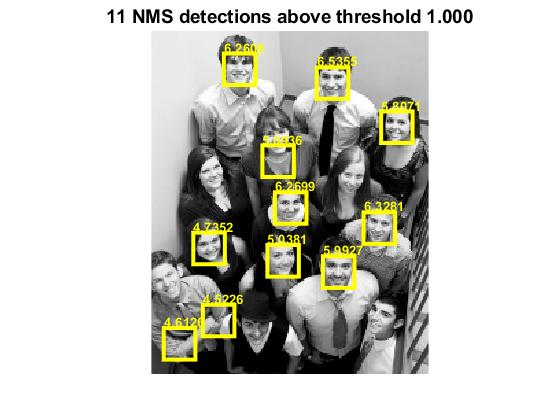
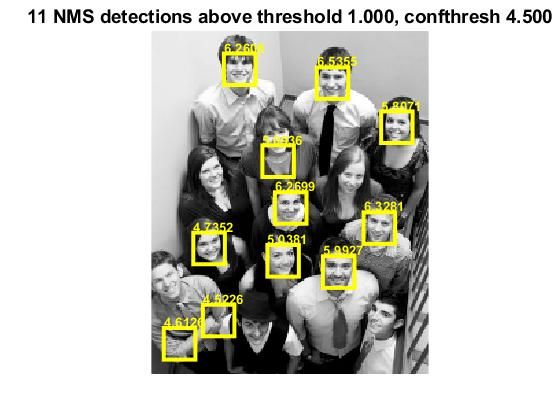
ex

Changed region(s): [[0.0304, 0.0, 1.0, 0.0619]]

diff --git a/matlab/exercise.m b/matlab/exercise.m
@@ -249,7 +249,8 @@ clf, showimage(reshape(W,24,24))
 %%%%%%%%%%%%%%% 2.2 When traibning for different C values, compute W,b
 %%%%%%%%%%%%%%%     and visualize W as an image (see above)
 %%%%%%%%%%%%%%%
-Call=[1000 100 10 1 .1 .01 .001 .0001 .00001];
+%Call=[1000 100 10 1 .1 .01 .001 .0001 .00001];
+Call=[.001];
 accbest=-inf; 
 modelbest=[];
 for i=1:length(Call)
@@ -328,7 +329,7 @@ fprintf('Training and validation accuracy estimated from W = "average image": %1
 
 %%%%%%%%%%%%%%% load test image
 %%%%%%%%%%%%%%%
-imgfname='img4.jpg';
+imgfname='img2.jpg';
 img=imread([imgpath '/' imgfname]);
 showimage(img), title(imgfname)
 gimg=mean(img,3);
@@ -402,11 +403,11 @@ indsel=find(conf>confthresh);
 
 %%%%%%%%%%%%%%% display detections above threshold after non-max suppression
 %%%%%%%%%%%%%%% 
-confthreshnms=1;
+confthreshnms=2;
 clf, showimage(img)
 indsel=find(nmsconf>confthreshnms);
 showbbox(nmsbbox(indsel,:),[1 1 0],regexp(num2str(nmsconf(indsel)'),'\d+\.\d+','match'));
-title(sprintf('%d NMS detections above threshold %1.3f',size(nmsbbox,1),confthreshnms),'FontSize',14)
+title(sprintf('%d NMS detections above threshold %1.3f, confthresh %1.3f',size(nmsbbox,1),confthreshnms, confthresh),'FontSize',14)
 % fprintf('press a key...'), pause, fprintf('\n')
 
 
